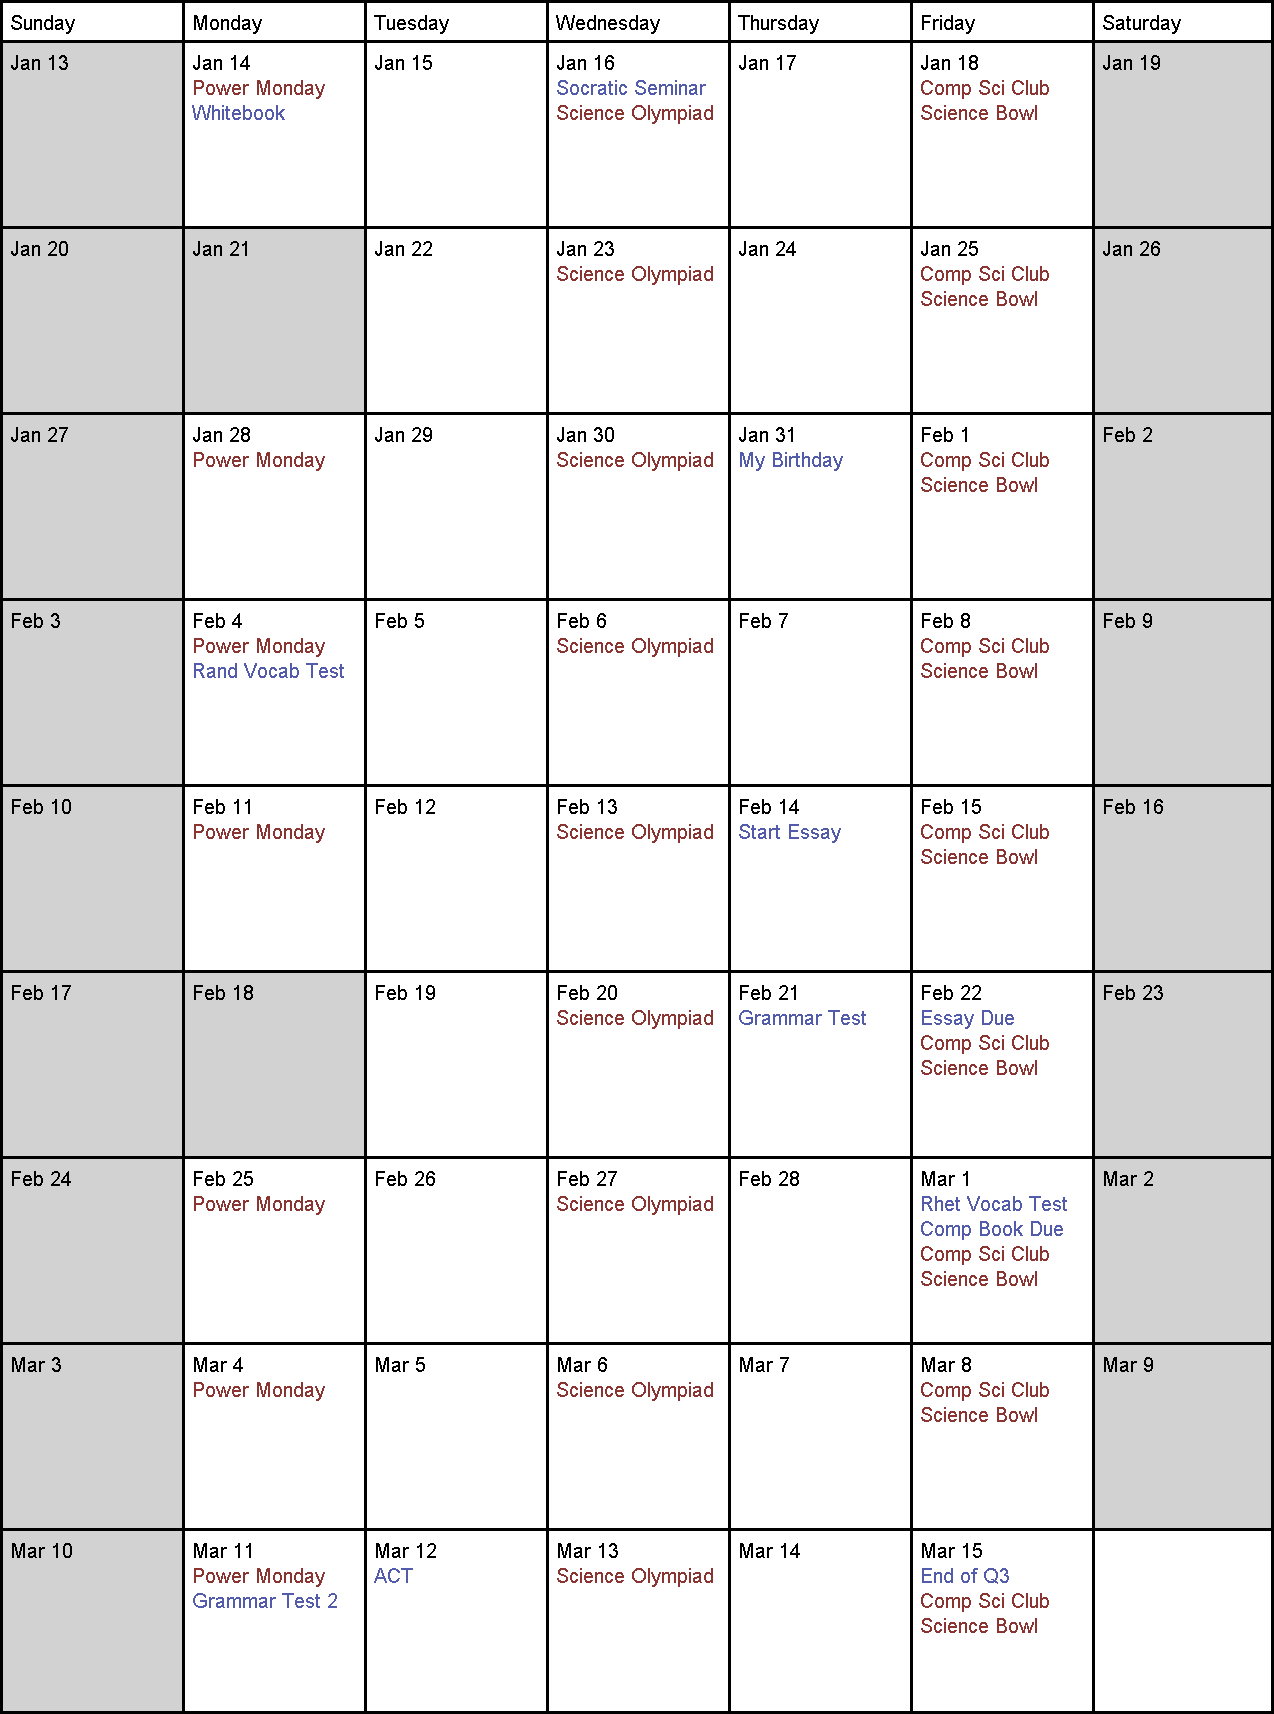
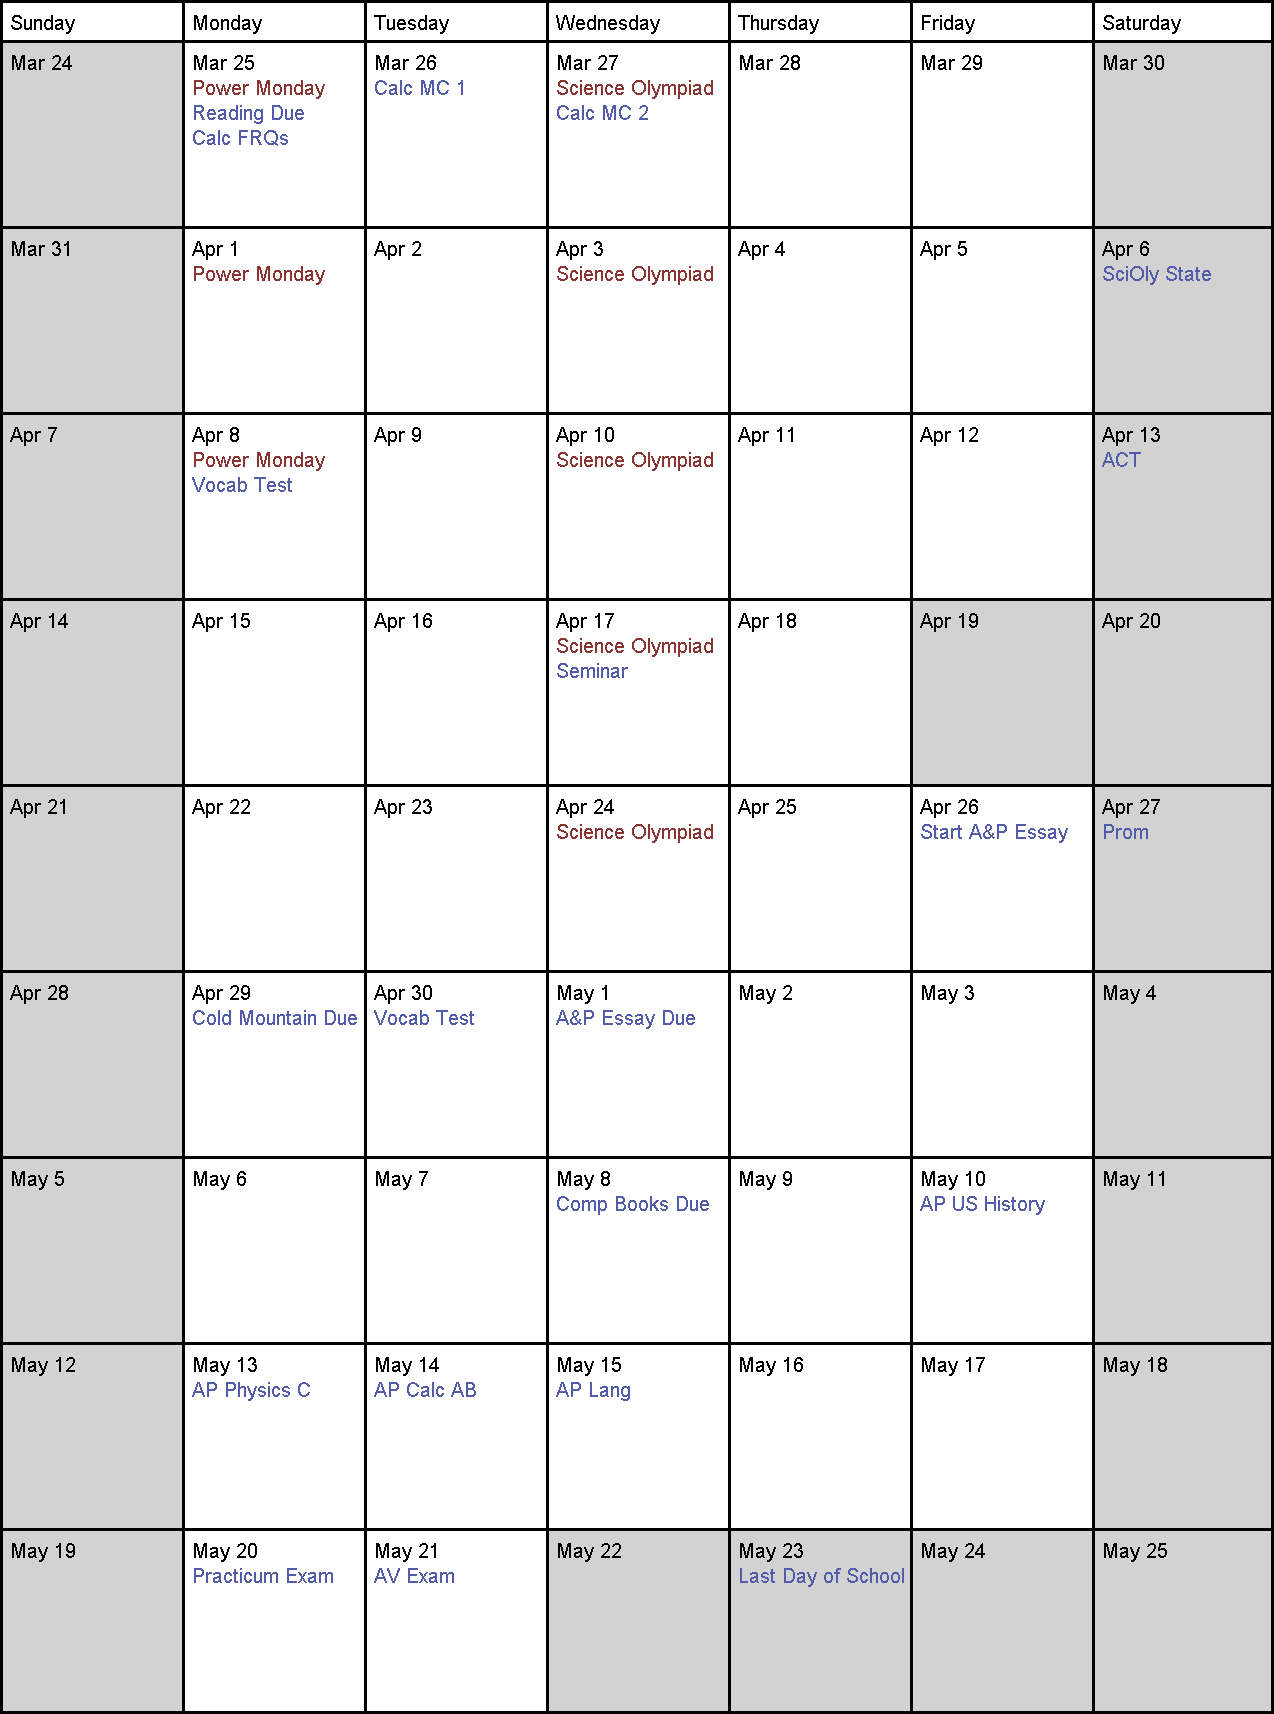
forgot to push this

diff --git a/src/Calendar.java b/src/Calendar.java
@@ -24,8 +24,8 @@ public class Calendar extends Applet implements Runnable, KeyListener {
     int[] daysPerMonth=new int[]{ 31  , 28  , 31  , 30  , 31  , 30   , 31   , 31  , 30   , 31  , 30  , 31  };
     String[] months=new String[]{"Jan","Feb","Mar","Apr","May","June","July","Aug","Sept","Oct","Nov","Dec"};
     int adj=2;
-    int start=getDayofYear(13,1);
-    int end=getDayofYear(15,3);
+    int start=getDayofYear(24,3);
+    int end=getDayofYear(25,5);
     int rows=(int)(Math.ceil((end-start)/7.0));
     ArrayList<String>[] events;
     boolean vert=false;
@@ -39,39 +39,44 @@ public class Calendar extends Applet implements Runnable, KeyListener {
 
     //           ADD EVENTS TO THE CALENDAR
     public void addEvents(){
-        addEvent("Whitebook",1,14, 1);
-        addEvent("Socratic Seminar",1,16, 1);
-        addEvent("Welcome Back",1,22, 1);
-        addEvent("My Birthday",1,31, 1);
-        addEvent("Rand Vocab Test",2,4, 1);
-        addEvent("Start Essay",2,14, 1);
-        addEvent("Grammar Test",2,21, 1);
-        addEvent("Essay Due",2,22, 1);
-        addEvent("Rhet Vocab Test",3,1, 1);
-        addEvent("Comp Book Due",3,1, 1);
-        addEvent("Grammar Test 2",3,11, 1);
-        addEvent("ACT",3,12, 1);
-        addEvent("End of Q3",3,15, 1);
-        addEvent("Last Day of School",5,23, 1);
         addWeeklyEvents();
+        addEvent("Reading Due",3,25,1);
+        addEvent("Calc FRQs",3,25,1);
+        addEvent("Calc MC 1",3,26,1);
+        addEvent("Calc MC 2",3,27,1);
+        addEvent("SciOly State",4,6,1);
+        addEvent("Vocab Test",4,8,1);
+        addEvent("ACT",4,13,1);
+        addEvent("Seminar",4,17,1);
+        addEvent("Prom",4,27,1);
+        addEvent("Start A&P Essay",4,26, 1);
+        addEvent("Cold Mountain Due",4,29, 1);
+        addEvent("Vocab Test",4,30, 1);
+        addEvent("A&P Essay Due",5,1, 1);
+        addEvent("Comp Books Due",5,8, 1);
+        addEvent("AP US History",5,10, 1);
+        addEvent("AP Physics C",5,13, 1);
+        addEvent("AP Calc AB",5,14, 1);
+        addEvent("AP Lang",5,15, 1);
+        addEvent("Practicum Exam",5,20, 1);
+        addEvent("AV Exam",5,21, 1);
+        addEvent("Last Day of School",5,23, 1);
     }
 
     private void addWeeklyEvents(){
+        int lastSciOly=getDayofYear(1,5);
         for (int i=start; i<=end; i++){
             int day=getDayOfWeek(i);
             if (!noSchool[i-start]) {
-                if (day == 3) {
+                if (day == 3&& i<lastSciOly) {
                     addEvent("Science Olympiad", i, 2);
-                } else if (day == 5) {
-                    addEvent("Comp Sci Club", i, 2);
-                    addEvent("Science Bowl", i, 2);
-
                 }
             }
         }
     }
 
     private void setHasSchool(){
+        int lastday=getDayofYear(24,5);
         for (int i=start; i<=end; i++){
             int day=getDayOfWeek(i);
             if (day==0||day==6){
@@ -83,12 +88,17 @@ public class Calendar extends Applet implements Runnable, KeyListener {
                 noSchool[i-start]=true;
             }
         }
-        noSchool[getDayofYear(21,1)-start]=true;
-        noSchool[getDayofYear(18,2)-start]=true;
+        for (int i=lastday; i<end; i++){
+            noSchool[i-start]=true;
+        }
+        noSchool[getDayofYear(19,4)-start]=true;
+        noSchool[getDayofYear(22,5)-start]=true;
+        noSchool[getDayofYear(23,5)-start]=true;
     }
 
     private void addPowerMondays(){
-        for (int i=start; i<=end; i++){
+        int lastMonday=getDayofYear(8,4);
+        for (int i=start; i<=lastMonday; i++){
             int day=getDayOfWeek(i);
             if (day==1&&!noSchool[i-start]){
                 addEvent("Power Monday", i, 2);
@@ -208,7 +218,7 @@ public class Calendar extends Applet implements Runnable, KeyListener {
     public void keyTyped(KeyEvent e) { }
 
     public void exportImg(){
-        String export="B:\\Libraries\\Programming\\Calendar Generator\\images\\t.png";
+        String export="C:\\Users\\Mike\\Documents\\GitHub\\Calendar-Generator\\images\\t.png";
         RenderedImage rendImage = toBufferedImage(img);
         File file = new File(export);
         try {
